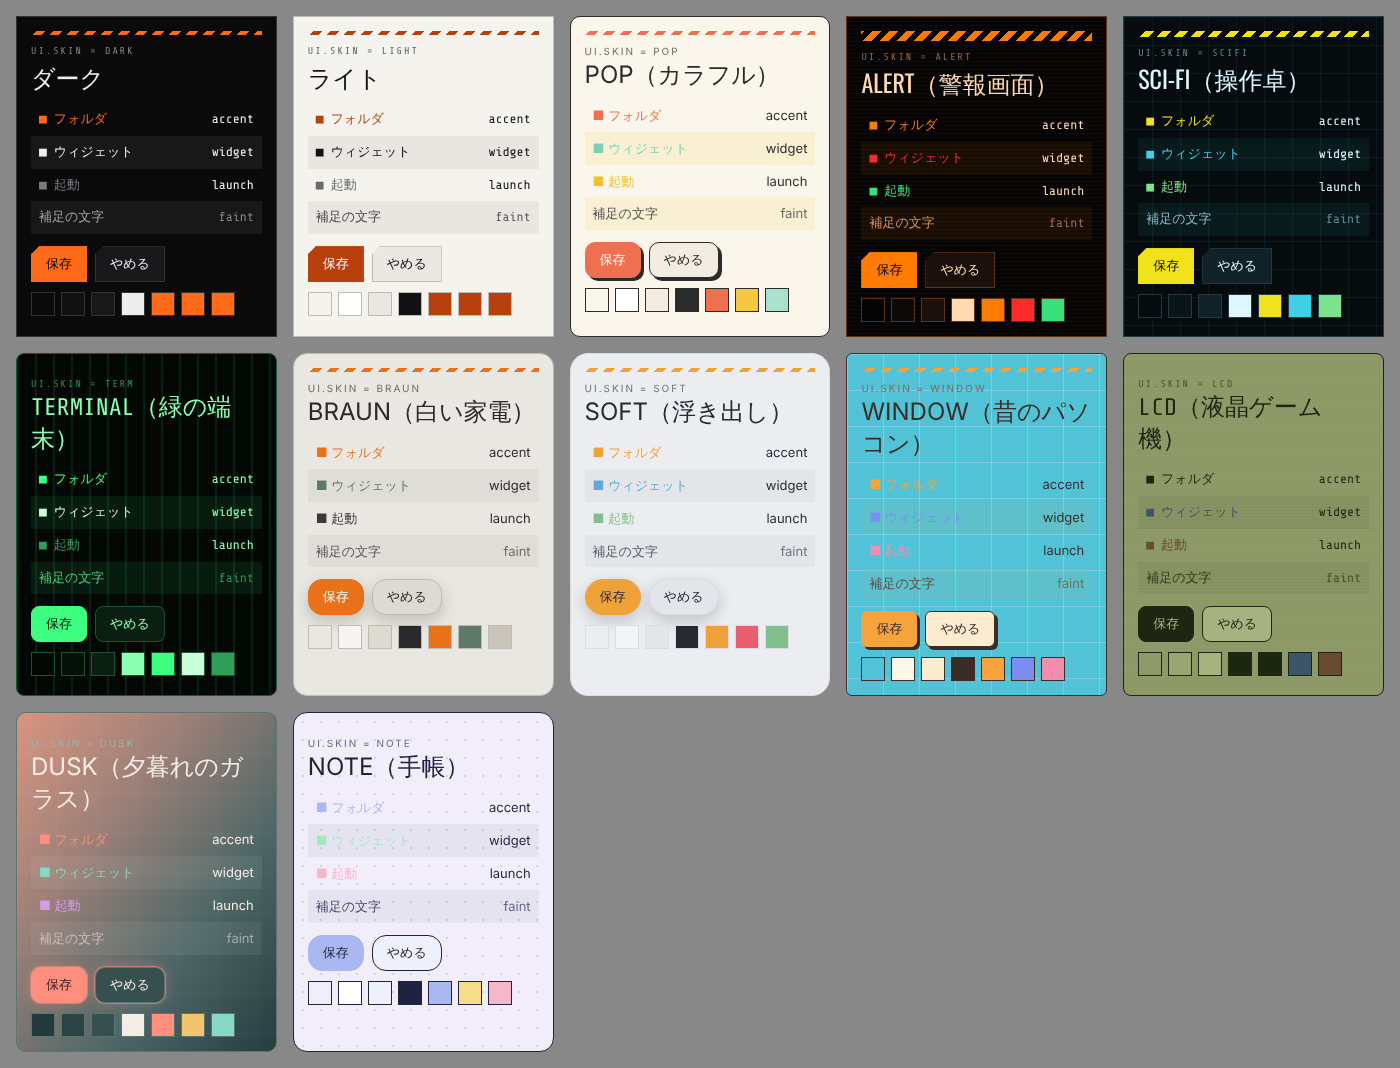
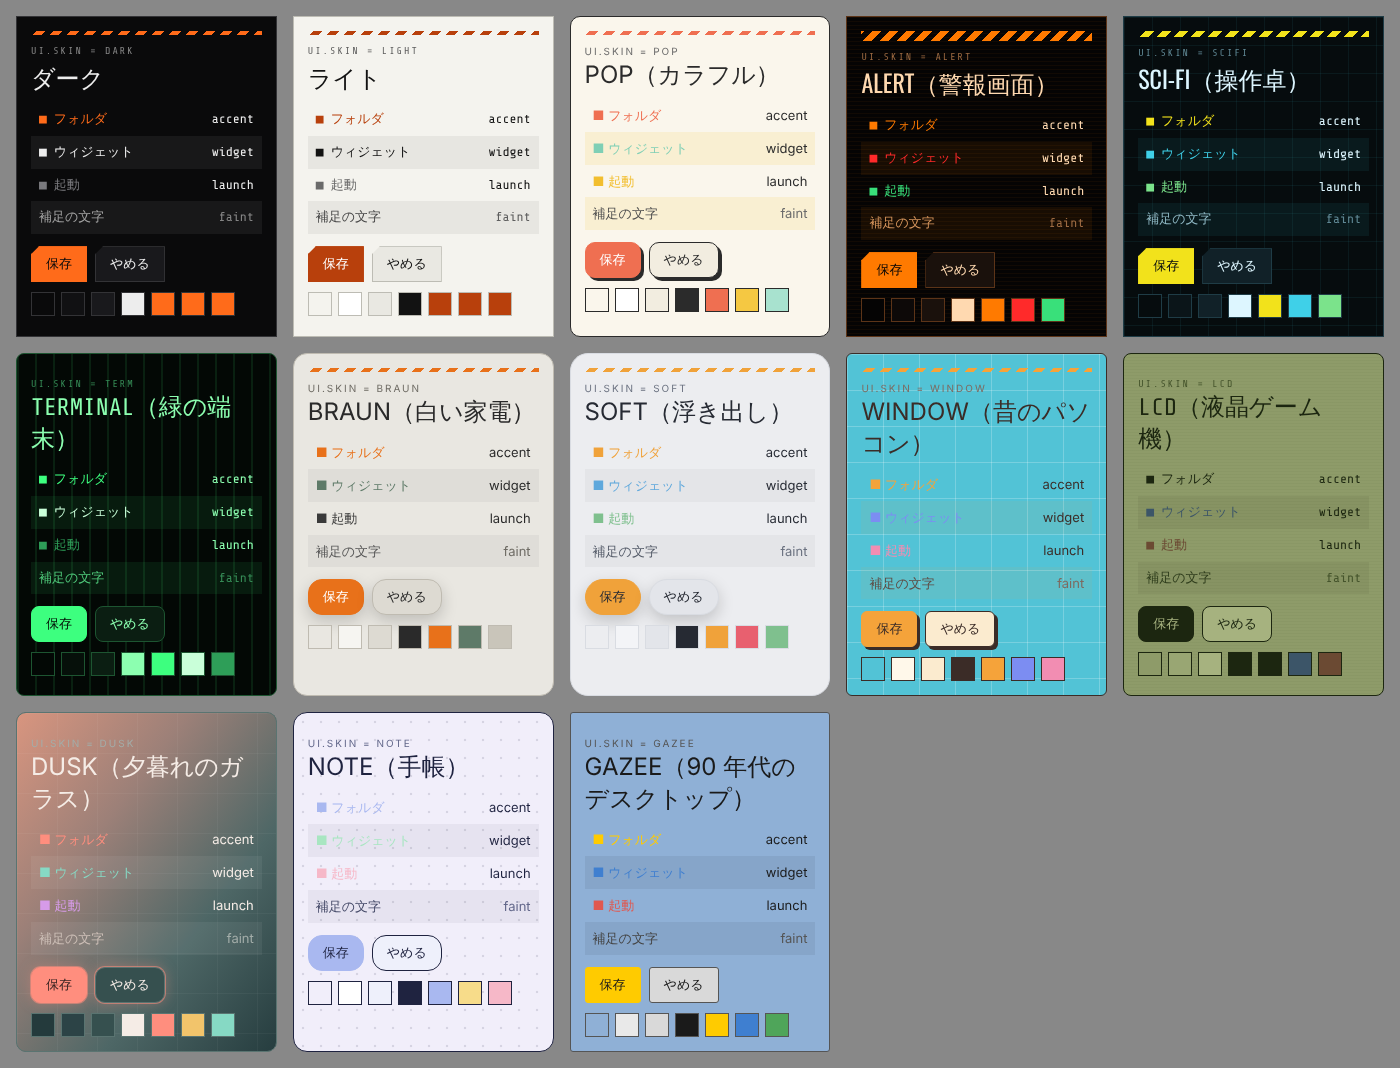
スキン GAZEE（90 年代のデスクトップ、Home 1.23.0）を追加。生成・見本を更新。home：1.23.0
Claude-Session: https://claude.ai/code/session_01GMSgoGarRChJJQLGtjAFKY

Changed region(s): [[0.3993, 0.6489, 0.6143, 0.9888]]

diff --git a/design/skins/ThetaSkins.kt b/design/skins/ThetaSkins.kt
@@ -27,7 +27,7 @@ data class Palette(
     val backdrop: String = "",
     /** 見出しの上の警告の帯の太さ。 */
     val hazard: Dp = 4.dp,
-    /** 作り：hud・pop・term・braun・soft・window・lcd・note（枠・時計・見出しの形の種類）。 */
+    /** 作り：hud・pop・term・braun・soft・window・lcd・note・gazee（枠・時計・見出しの形の種類）。 */
     val style: String = "hud",
     /** 角丸の大きさ。 */
     val radius: Dp = 0.dp,
@@ -362,7 +362,33 @@ val NotePalette = Palette(
     iconShape = "round",
 )
 
-/** 設定 ui.skin の値（system・dark・light・pop・alert・scifi・term・braun・soft・window・lcd・dusk・note）から配色を決める。 */
+/** GAZEE（90 年代のデスクトップ）：青い机の地に、灰色の立体的な窓（左上が明るく右下が暗い縁）。窓の見出しは左上の黄色い札。四角に近い角、ゴシック */
+val GazeePalette = Palette(
+    bg = Color(0xFF8FB0D6),
+    panel = Color(0xFFE9E9E9),
+    raised = Color(0xFFD9D9D9),
+    fg = Color(0xFF1A1A1A),
+    muted = Color(0xFF444444),
+    faint = Color(0xFF555555),
+    line = Color(0xFF555555),
+    accent = Color(0xFFFFCB00),
+    onAccent = Color(0xFF1A1A1A),
+    widget = Color(0xFF3F7FD0),
+    launch = Color(0xFFE0584F),
+    zebra = Color(0x0F000000),
+    accent2 = Color(0xFF3F7FD0),
+    accent3 = Color(0xFF4FA55A),
+    pop = true,
+    backdrop = "",
+    hazard = 0.dp,
+    style = "gazee",
+    radius = 3.dp,
+    font = "sans",
+    shadow = "none",
+    iconShape = "square",
+)
+
+/** 設定 ui.skin の値（system・dark・light・pop・alert・scifi・term・braun・soft・window・lcd・dusk・note・gazee）から配色を決める。 */
 fun paletteFor(skin: String, systemDark: Boolean): Palette = when (skin) {
     "dark" -> DarkPalette
     "light" -> LightPalette
@@ -376,5 +402,6 @@ fun paletteFor(skin: String, systemDark: Boolean): Palette = when (skin) {
     "lcd" -> LcdPalette
     "dusk" -> DuskPalette
     "note" -> NotePalette
+    "gazee" -> GazeePalette
     else -> if (systemDark) DarkPalette else LightPalette
 }

diff --git a/design/skins/theta-skins.css b/design/skins/theta-skins.css
@@ -1,5 +1,5 @@
 /* 生成ファイル：tools/gen_skins.py で design/skins/skins.json から作る。手で直さない。
-   <html data-theta-skin="dark|light|pop|alert|scifi|term|braun|soft|window|lcd|dusk|note|system">（html 以外の要素に付けてもその中だけ切り替わる）。無い・system は端末のダーク／ライトに合わせる。
+   <html data-theta-skin="dark|light|pop|alert|scifi|term|braun|soft|window|lcd|dusk|note|gazee|system">（html 以外の要素に付けてもその中だけ切り替わる）。無い・system は端末のダーク／ライトに合わせる。
    書体：<link href="https://fonts.googleapis.com/css2?family=Oswald:wght@300;400;600&family=Share+Tech+Mono&display=swap" rel="stylesheet">
    （アプリに同梱するときは design/hud-kit/compose/res/font/ の ttf とライセンスを使う） */
 :root {
@@ -350,6 +350,31 @@
   --hazard: 0px;
   --shadow: none;
   --icon-radius: 24%;
+  --display: system-ui, "Noto Sans JP", sans-serif;
+  --mono: system-ui, "Noto Sans JP", sans-serif;
+  color-scheme: light;
+}
+[data-theta-skin="gazee"] {
+  --bg: #8FB0D6;
+  --panel: #E9E9E9;
+  --raised: #D9D9D9;
+  --fg: #1A1A1A;
+  --muted: #444444;
+  --faint: #555555;
+  --line: #555555;
+  --accent: #FFCB00;
+  --on-accent: #1A1A1A;
+  --widget: #3F7FD0;
+  --launch: #E0584F;
+  --zebra: rgba(0,0,0,0.059);
+  --accent2: #3F7FD0;
+  --accent3: #4FA55A;
+  --card: var(--panel);
+  --radius: 3px;
+  --line-width: 1.5px;
+  --hazard: 0px;
+  --shadow: none;
+  --icon-radius: 0;
   --display: system-ui, "Noto Sans JP", sans-serif;
   --mono: system-ui, "Noto Sans JP", sans-serif;
   color-scheme: light;

diff --git a/design/skins/preview.html b/design/skins/preview.html
@@ -29,7 +29,7 @@
 <body>
 <div class="grid" id="grid"></div>
 <script>
-  const skins = { dark: "ダーク", light: "ライト", pop: "POP（カラフル）", alert: "ALERT（警報画面）", scifi: "SCI-FI（操作卓）", term: "TERMINAL（緑の端末）", braun: "BRAUN（白い家電）", soft: "SOFT（浮き出し）", window: "WINDOW（昔のパソコン）", lcd: "LCD（液晶ゲーム機）", dusk: "DUSK（夕暮れのガラス）", note: "NOTE（手帳）" };
+  const skins = { dark: "ダーク", light: "ライト", pop: "POP（カラフル）", alert: "ALERT（警報画面）", scifi: "SCI-FI（操作卓）", term: "TERMINAL（緑の端末）", braun: "BRAUN（白い家電）", soft: "SOFT（浮き出し）", window: "WINDOW（昔のパソコン）", lcd: "LCD（液晶ゲーム機）", dusk: "DUSK（夕暮れのガラス）", note: "NOTE（手帳）", gazee: "GAZEE（90 年代のデスクトップ）" };
   const grid = document.getElementById("grid");
   for (const [id, name] of Object.entries(skins)) {
     grid.insertAdjacentHTML("beforeend", `

diff --git a/tools/gen_skins.py b/tools/gen_skins.py
@@ -13,7 +13,7 @@ COLOR_KEYS = ["bg", "panel", "raised", "fg", "muted", "faint", "line", "accent",
               "widget", "launch", "zebra", "accent2", "accent3"]
 KT_NAMES = {"dark": "DarkPalette", "light": "LightPalette", "pop": "PopPalette",
             "alert": "AlertPalette", "scifi": "SciFiPalette", "term": "TermPalette", "braun": "BraunPalette",
-            "soft": "SoftPalette", "window": "WindowPalette", "lcd": "LcdPalette", "dusk": "DuskPalette", "note": "NotePalette"}
+            "soft": "SoftPalette", "window": "WindowPalette", "lcd": "LcdPalette", "dusk": "DuskPalette", "note": "NotePalette", "gazee": "GazeePalette"}
 GOTHIC = 'system-ui, "Noto Sans JP", sans-serif'
 OSWALD = '"Oswald", "Noto Sans JP", sans-serif'
 TECH = '"Share Tech Mono", ui-monospace, "Noto Sans JP", monospace'
@@ -137,7 +137,7 @@ def make_kt(data):
         "    val backdrop: String = \"\",",
         "    /** 見出しの上の警告の帯の太さ。 */",
         "    val hazard: Dp = 4.dp,",
-        "    /** 作り：hud・pop・term・braun・soft・window・lcd・note（枠・時計・見出しの形の種類）。 */",
+        "    /** 作り：hud・pop・term・braun・soft・window・lcd・note・gazee（枠・時計・見出しの形の種類）。 */",
         "    val style: String = \"hud\",",
         "    /** 角丸の大きさ。 */",
         "    val radius: Dp = 0.dp,",

diff --git a/progress/home.md b/progress/home.md
@@ -2,7 +2,7 @@
 
 - 更新：2026-11-07
 - スレッド：https://claude.ai/code/session_01GMSgoGarRChJJQLGtjAFKY
-- 状態：1.22.1 公開済み（長押しで開いてしまうのを直す・設定をまとまりの一覧に整理・スキン DUSK・NOTE を追加・skins.json への登録は未・閉じた画面に開いた画面の並びが残るのを直す・同梱の apps.json を新しく・Movie を一覧に・MemoHatch のタブに最近のメモ 6 件・MemoHatch のボタンを端末に直接たずねて名指しで開く・棚のタイル・本の区画・フォルダの並べ替え・すぐ記録は MemoHatch へ）（タスクバーのピン留め・LINE と人の結び付け・よく連絡する人・LINE WORKS などのトーク。実機の確認はこれから）
+- 状態：1.23.0 公開済み（スキン GAZEE・テーマの絵のアイコン（Gemini フルカラー）・長押しで開いてしまうのを直す・設定をまとまりの一覧に整理・スキン DUSK・NOTE を追加・skins.json への登録は未・閉じた画面に開いた画面の並びが残るのを直す・同梱の apps.json を新しく・Movie を一覧に・MemoHatch のタブに最近のメモ 6 件・MemoHatch のボタンを端末に直接たずねて名指しで開く・棚のタイル・本の区画・フォルダの並べ替え・すぐ記録は MemoHatch へ）（タスクバーのピン留め・LINE と人の結び付け・よく連絡する人・LINE WORKS などのトーク。実機の確認はこれから）
 
 ## 今と目標
 
